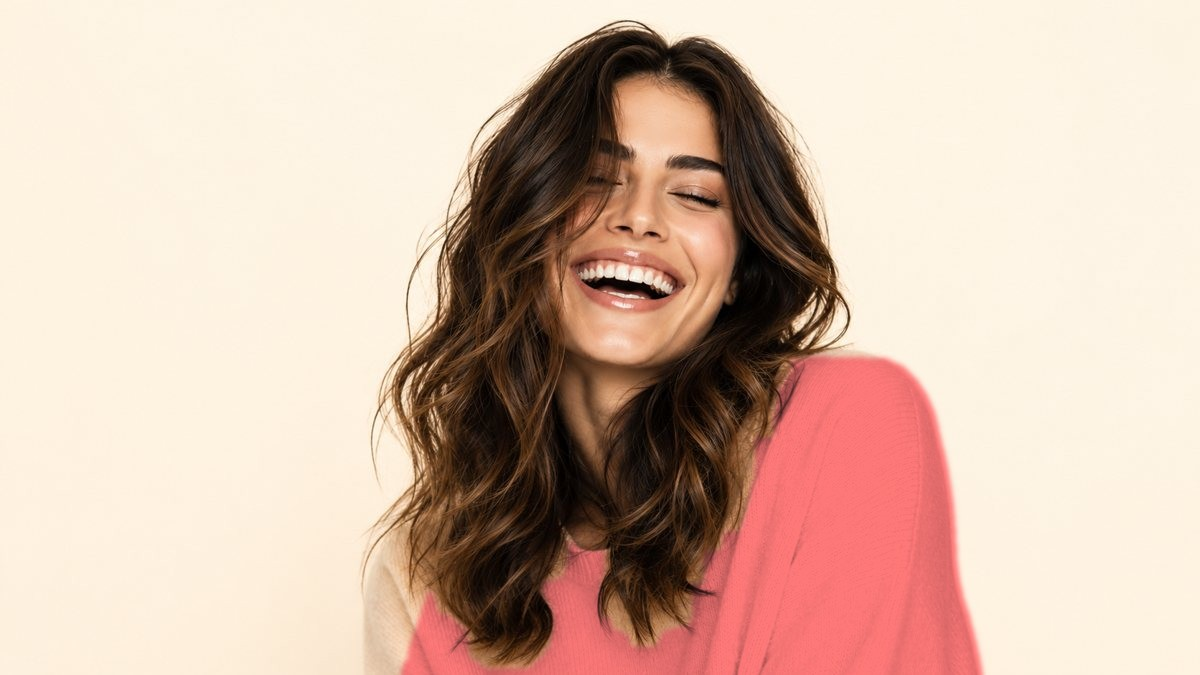
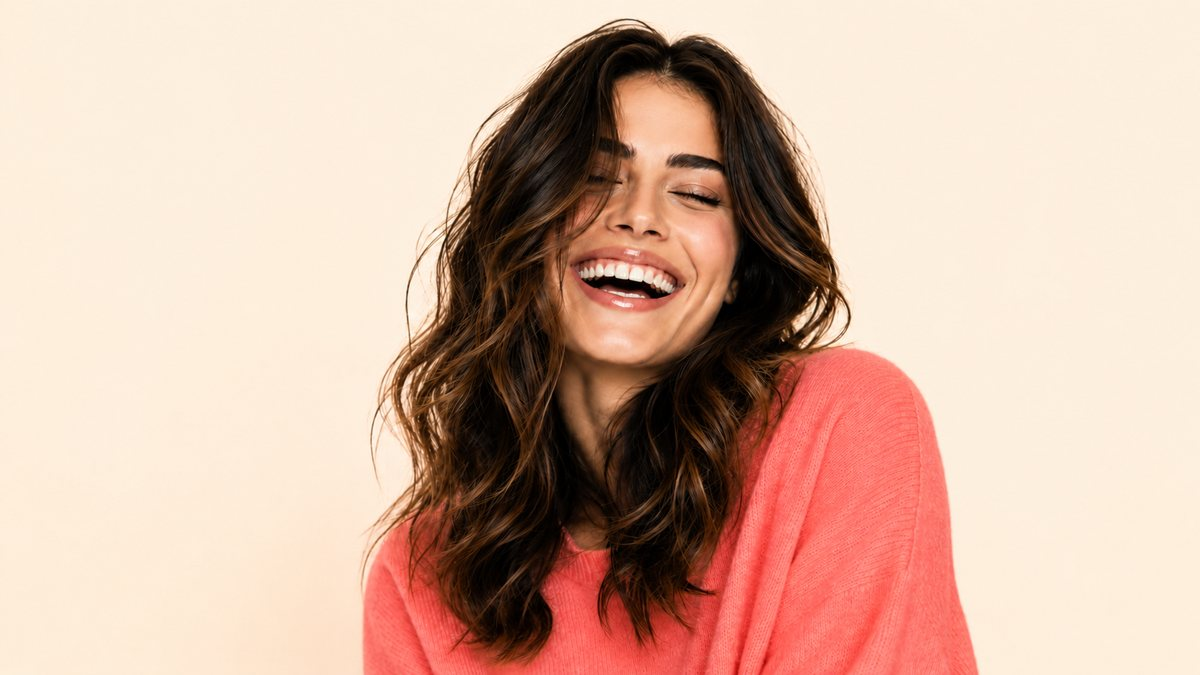
About Our story: replace with new coral-sweater photo; anchor crop toward top so head is not cut off

diff --git a/framer-version/about-us.html b/framer-version/about-us.html
@@ -56,7 +56,7 @@
   <div class="container">
     <div class="grid grid-split">
       <div class="reveal">
-        <div class="media-frame"><img src="assets/about-story.jpg" alt="A woman laughing with a bright, healthy smile" style="height:500px;"></div>
+        <div class="media-frame"><img src="assets/about-story.jpg" alt="A woman laughing with a bright, healthy smile" style="height:500px;object-position:center 18%;"></div>
       </div>
       <div class="reveal">
         <span class="eyebrow" style="margin-bottom:16px;">Our story</span>
